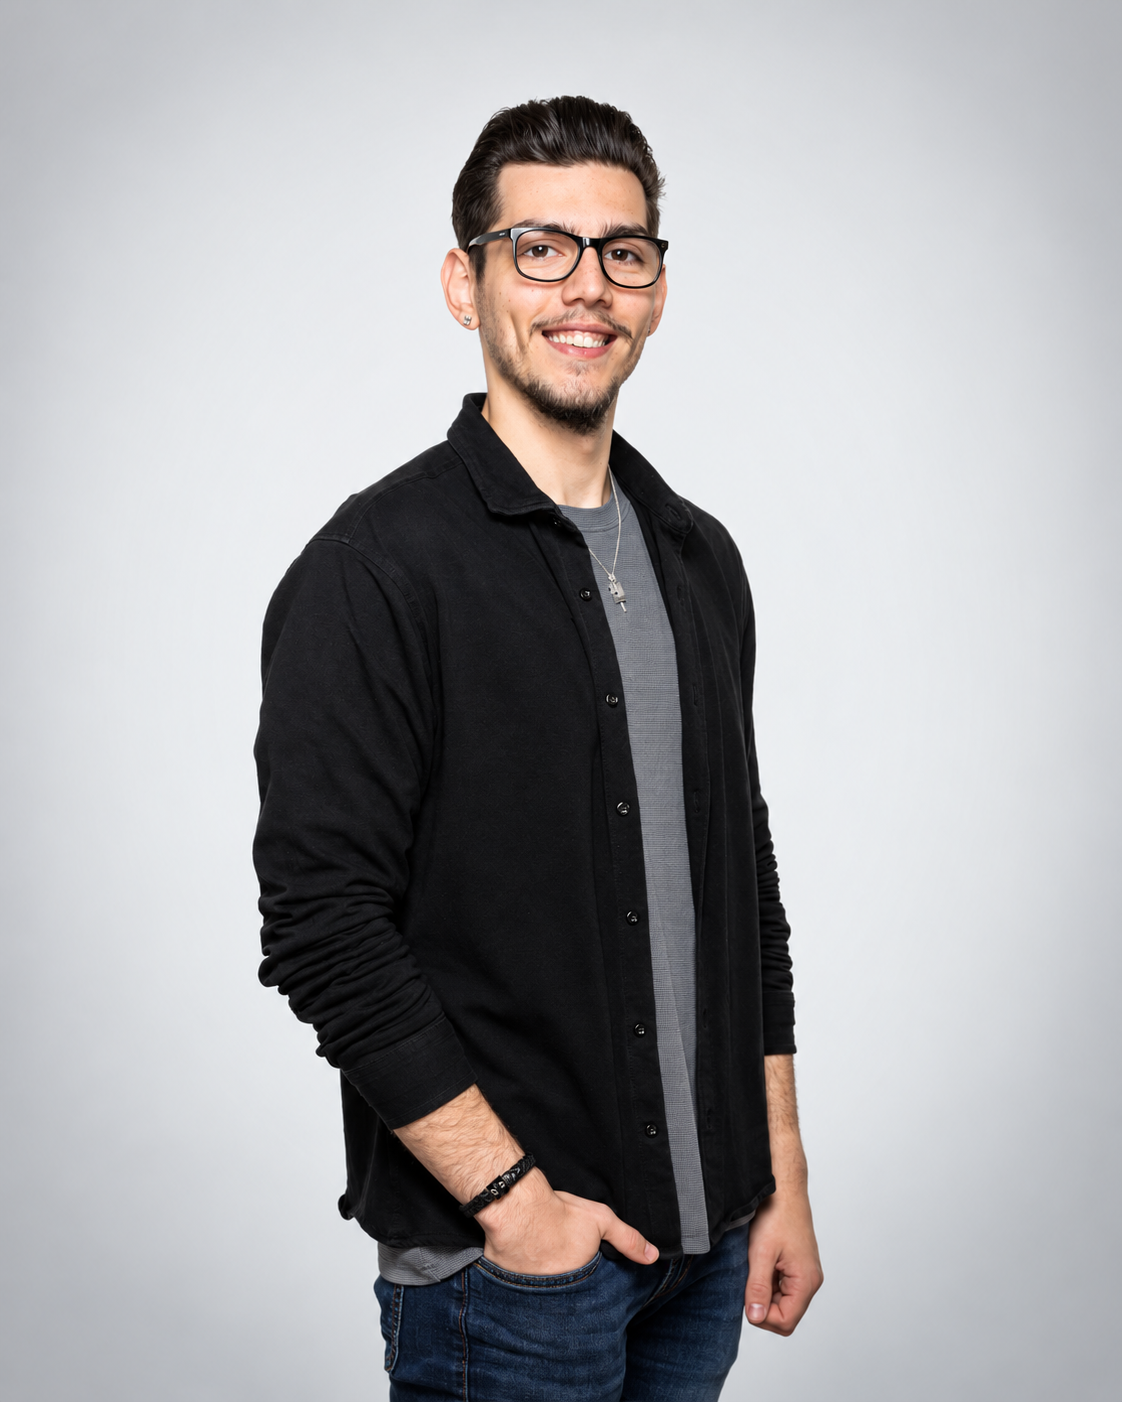
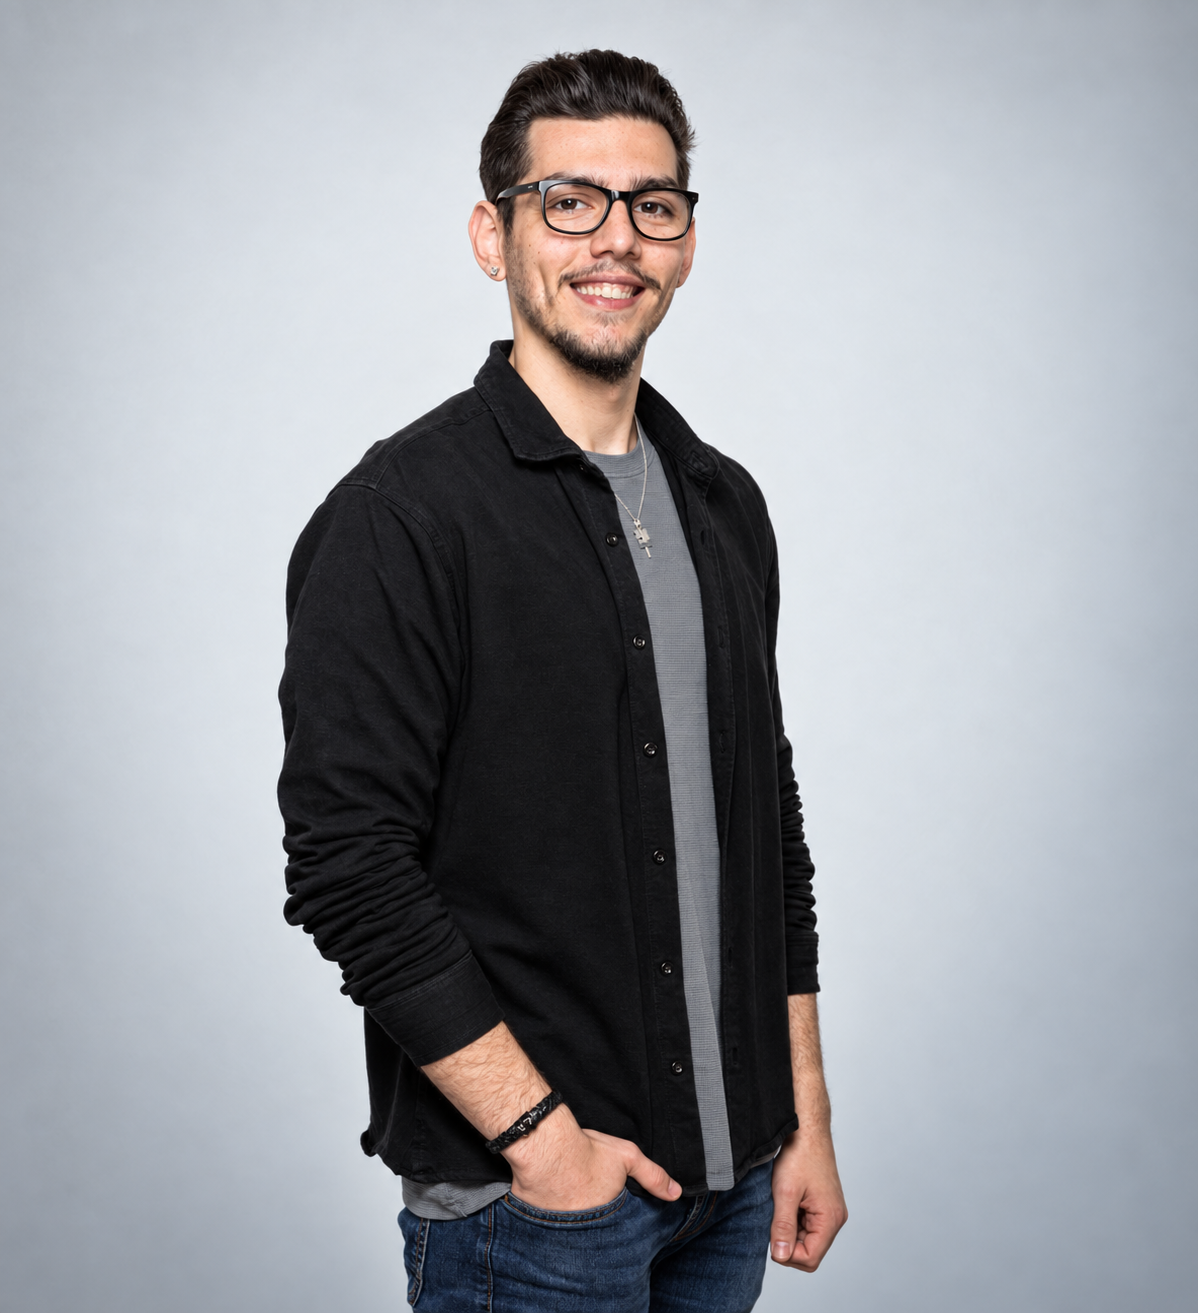
refactor: Update position of Foto1.png in slideshow for improved layout

diff --git a/portfolio.client/src/app/slideshow/slideshow.component.ts b/portfolio.client/src/app/slideshow/slideshow.component.ts
@@ -20,7 +20,7 @@ export class SlideshowComponent implements OnInit, OnDestroy {
   readonly slides: PortfolioSlide[] = [
     {
       src: 'Assets/Images/Slideshow/Foto1.png',
-      position: 'center 10%',
+      position: 'center top',
       label: 'Dit ben ik',
       note: 'Dit ben ik dus. Meestal achter een scherm, anders waarschijnlijk op de motor.',
     },
